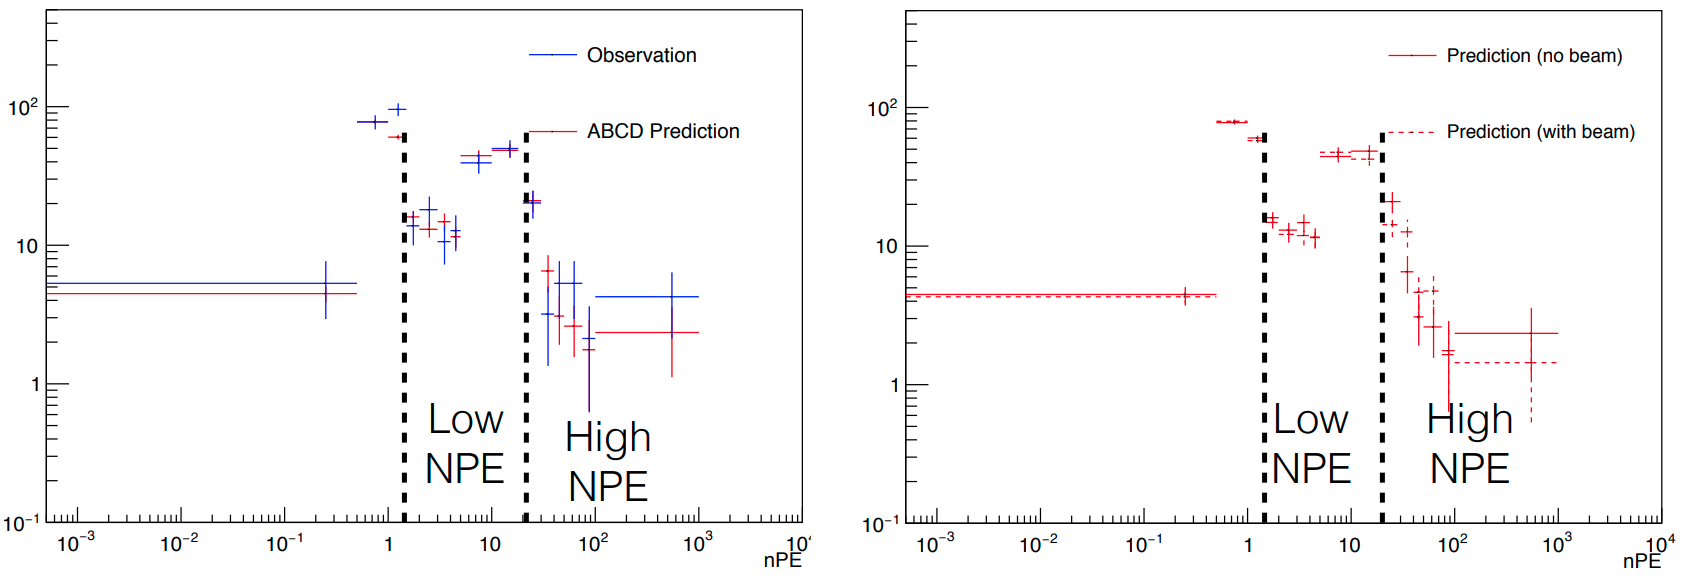
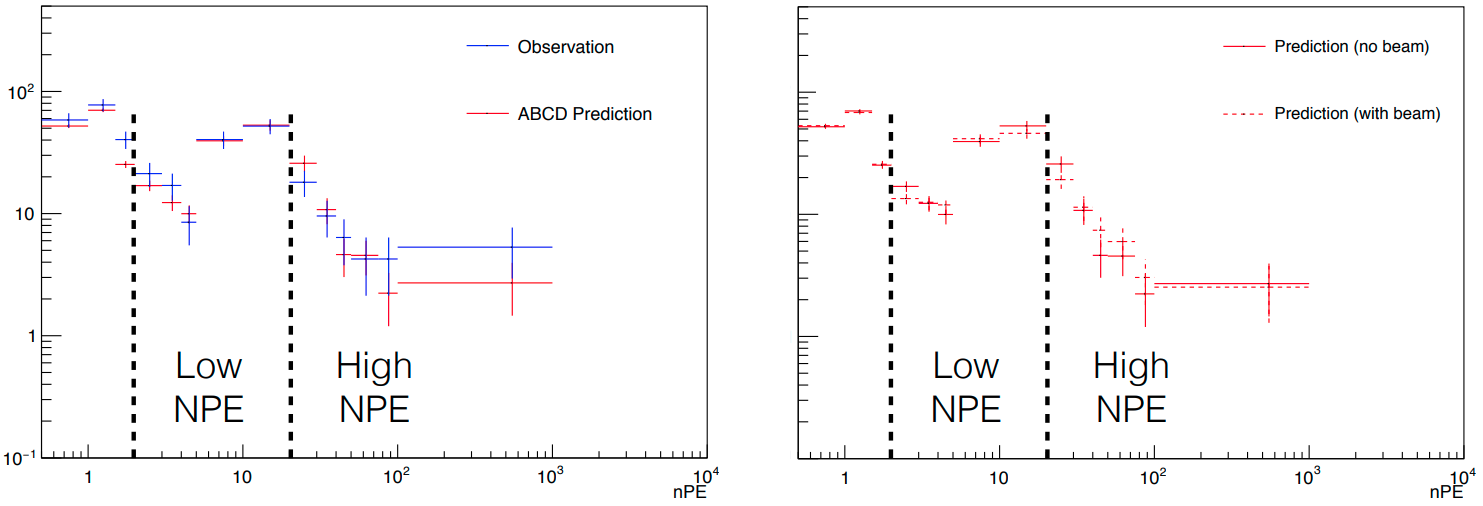
minor updates to mq section

diff --git a/tex/app_milliqan.tex b/tex/app_milliqan.tex
@@ -902,7 +902,7 @@ categorized based on number of slab hits (which must have $0.5<\Npe<250$) and th
 \hline
  SR & \# slab hits & min bar \Npe \\
 \hline
-1 & 0 & $[1.5,\;20)$ \\
+1 & 0 & $[2,\;20)$ \\
 2 & 0 & $[20,\;\infty)$ \\
 3 & 1 & $[5,\;30)$ \\
 4 & 1 & $[30,\;\infty)$ \\
@@ -957,10 +957,10 @@ backgrounds are negligible). Uncertainties shown are statistical.
 \cline{2-4}
  & Pred. & Obs. & Pred. \\
 \hline
-1 & $145\pm6$ & 144 & $141\pm6$ \\
-2 & $36\pm5$ & 40 & $39\pm5$ \\
-3 & $8.4\pm6.0$ & 11 & $13\pm3$ \\
-4 & $2.7\pm1.8$ & 2 & $0.4\pm0.4$ \\
+1 & $129\pm6$ & 139 & $124\pm6$ \\
+2 & $50\pm5$ & 48 & $49\pm5$ \\
+3 & $8.4\pm2.0$ & 10 & $10.7\pm2.7$ \\
+4 & $2.8\pm1.8$ & 4 & $2.4\pm1.1$ \\
 5 & $0.9\pm0.9$ & 1 & $0.0^{+0.6}_{-0.0}$ \\
 \hline
 \end{tabular}
@@ -983,7 +983,8 @@ but not the $\geq$2 slab region as there are not enough events.
       The $\geq$2 slab region does not have enough statistics to allow
       a full \Npe distribution. Vertical dashed lines indicate
       the boundaries of the signal regions (regions 1 and 2 for the top plots,
-      and 3 and 4 for the bottom plots).
+      and 3 and 4 for the bottom plots). Integrated predictions and
+      observations for these regions are listed in Table~\ref{tab:mq_abcd_valid}.
             }
     \label{fig:mq_abcd_valid}
   \end{center}
@@ -1000,9 +1001,9 @@ in the final column of Table~\ref{tab:mq_abcd_valid}. Additionally, we assess a 
 based on the small prediction/observation disagreements in the beam-off data.
 
 For the signal yield prediction, we assess a systematic uncertainty on the differential cross
-sections of each production mode individually, as well as an overall proton-proton inelastic
+section of each production mode individually, as well as an overall proton-proton inelastic
 cross section uncertainty used for the light meson production modes. Details are given in
-Sec~\ref{sec:mq_mcgen}. 
+Sec.~\ref{sec:mq_mcgen}. 
 
 A material modeling systematic is assigned by varying the density
 of material between the CMS IP and milliQan up and down by 7\%, re-running the signal simulation
@@ -1017,7 +1018,7 @@ comes from a number of sources, some correlated and some not:
 \item Statistical uncertainty from fit: 10--20\%, uncorrelated everywhere
 \item Correction of SPE mean: 1--5\%; arises from the fact that the mode of the 
 SPE area distribution (measured in-situ) differs from the mean (measured in the lab)
-by up to 10\%, due to a large left tail. We correct for this, and take half the difference
+by up to 10\%, due to a large left tail in the area distributions. We correct for this, and take half the difference
 as an uncertainty. This is correlated between bars with the same PMT species.
 \item B/no-B differences: typically $<$10\%, but up to 20\%. Arises from differences in measured
 SPE values between magnetic field on/off runs. Uncorrelated everywhere.
@@ -1025,7 +1026,7 @@ SPE values between magnetic field on/off runs. Uncorrelated everywhere.
 is applied to the waveforms for calibration, but not in the main analysis. We take the difference
 in measured SPE values with/without the filter as a systematic. R7725s and ETs are unaffected
 as their SPE pulses are much larger and cleaner.
-\item Globally correlated 5\% uncertainty, from observed differences in the power law
+\item Global fully-correlated 5\% uncertainty, from observed differences in the power law
 fits between cosmic and SPE points.
 \end{itemize}
 
@@ -1034,13 +1035,13 @@ To translate these per-channel uncertainties into signal region yield uncertaint
 taking into account all correlations. Signal region yields are recorded for each toy, and the
 covariance matrix of the yields is diagonalized to generate $N_\mrm{SR}$ independent uncertainties,
 fully accounting for correlations between the various signal region yields.
-Scatterplots of signal region yields from such toys for an example (mass,charge) point
+Scatterplots of signal region yields from such toys for an example (mass, charge) point
 are shown in Fig.~\ref{fig:mq_calib_toys}.
 
 \begin{figure}[t]
   \begin{center}
     \includegraphics[width=0.95\textwidth]{figs/milliq/calib_toys.png}
-    \caption{Scatterplots of signal region yields in 1000 calibration toys,
+    \caption{Scatterplots of signal region yields in 1000 \Npe calibration toys,
       for an example signal point $m=1.0\GeV$, $q=0.014e$. Diagonalizing the covariance
       matrix gives five independent uncertainties, accounting for all correlations
       between the various regions (e.g. the dominant uncertainty in this example shifts events
@@ -1051,9 +1052,9 @@ are shown in Fig.~\ref{fig:mq_calib_toys}.
   \end{center}
 \end{figure}
 
-Finally, we assess a systematic on the time smearing correction applied to signal simulation.
+Finally, we assess a systematic uncertainty on the time smearing correction applied to signal simulation.
 As the time resolution discrepancies between simulation and data have an unknown origin,
-the full size of the correction is used as a systematic.
+the full size of the correction is used as a systematic uncertainty.
 
 \subsection{Results and limits}
 
